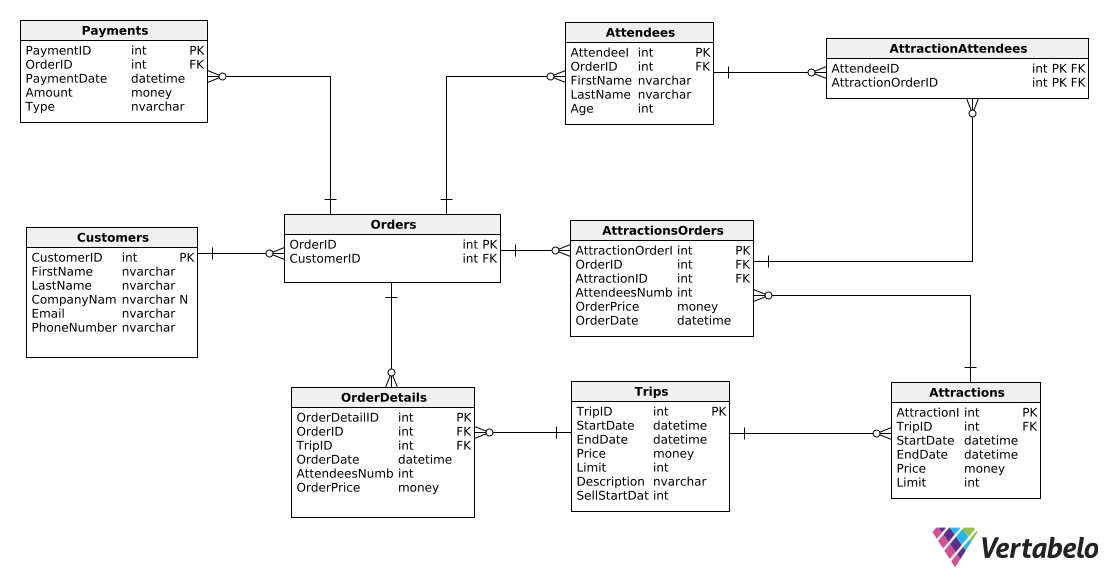
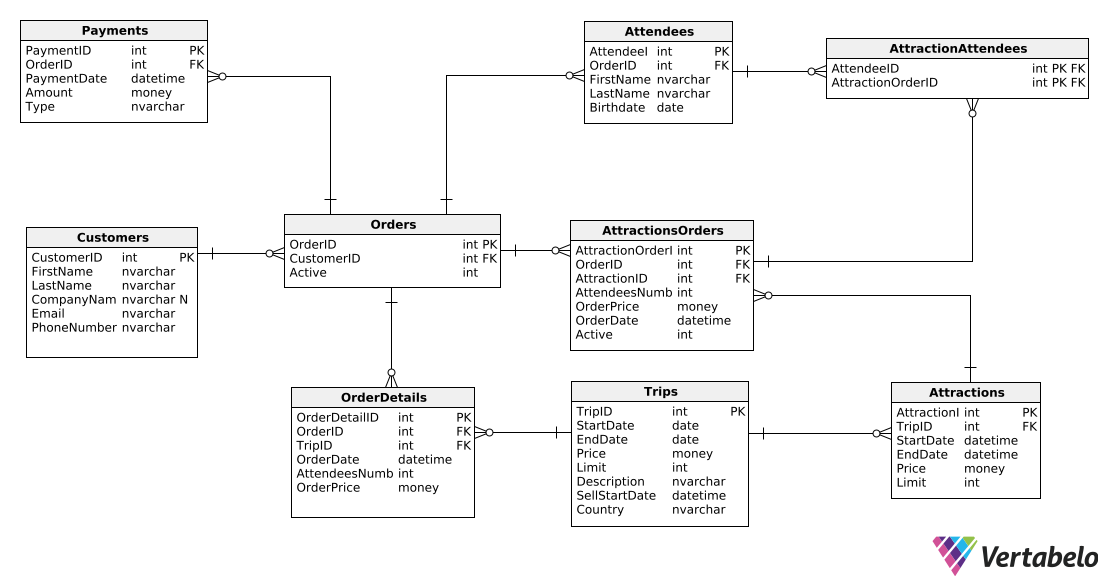
dodatki

diff --git a/README.md b/README.md
@@ -32,10 +32,11 @@
 ## Nazwa tabeli: Orders
 - Opis: Lista zamówień oraz użytkowników, którzy je złożyli
 
-| Nazwa atrybutu | Typ | Opis/Uwagi      |
-|----------------|-----|-----------------|
-| OrderID        | int | PK              |
-| CustomerID     | int | FK -> Customers |
+| Nazwa atrybutu | Typ | Opis/Uwagi                 |
+|----------------|-----|----------------------------|
+| OrderID        | int | PK                         |
+| CustomerID     | int | FK -> Customers            |
+| Active         | int | 1 - aktywne, 0 - anulowane |
 
 
 - kod DDL
@@ -54,7 +55,7 @@
 | TripID          | int      | FK   -> Trips                                    |
 | OrderDate       | datetime | data złozenia zamówienia                         |
 | AttendeesNumber | int      | ilość uczestników podawana w momencie rezerwacji |
-| OrderPrice      | money    | Cena wycieczki                                   |
+| OrderPrice      | money    | cena wycieczki                                   |
 
 
 - kod DDL
@@ -69,12 +70,13 @@
 | Nazwa atrybutu | Typ      | Opis/Uwagi                            |
 |----------------|----------|---------------------------------------|
 | TripID         | int      | PK                                    |
-| StartDate      | datetime | data rozpoczęcia wycieczki            |
-| EndDate        | datetime | data zakończenia wycieczki            |
+| StartDate      | date | data rozpoczęcia wycieczki            |
+| EndDate        | date | data zakończenia wycieczki            |
 | Price          | money    | cena wycieczki od osoby               |
 | Limit          | int      | liczba dostępnych miejsc na wycieczce |
 | Description    | nvachar  | dodatkowe informacje o wycieczce      |
 | SellStartDate  | datetime | data rozpoczęcia sprzedaży            |
+| Country        | nvachar  | kraj wycieczki                        |
 
 - kod DDL
 
@@ -93,6 +95,7 @@
 | AttendeesNumber   | int      | ilość uczestników podawana w momencie rezerwacji atrakcji |
 | OrderPrice        | money    | cena zamówienia                                           |
 | OrderDate         | datetime | data złożenia zamówienia                                  |
+| Active            | int      | 1 - aktywne, 0 - anulowane                                |
 
 
 - kod DDL
@@ -129,7 +132,7 @@
 | OrderID        | int     | FK -> Orders |
 | FirstName      | nvachar | imię         |
 | LastName       | nvachar | nazwisko     |
-| Age            | int     | wiek         |
+| BirthDate            | date     | wiek         |
 
 
 - kod DDL
